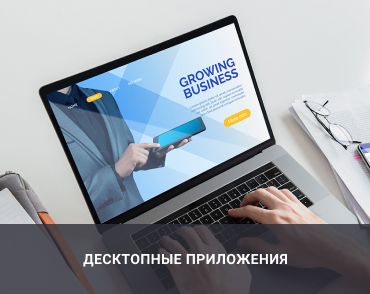
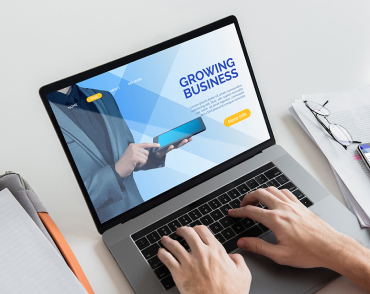
убраны почеркивания и точки частично

Changed region(s): [[0.0, 0.7347, 1.0, 1.0]]

diff --git a/css/styles.css b/css/styles.css
@@ -11,16 +11,27 @@
 }
 
 body {
-    background-color: var(--primary-white-color);
+  background-color: var(--primary-white-color);
   color: var(--primary-text-color);
+
+  font-family: Roboto, sans-serif;
+  letter-spacing: 0.03em;
+  font-size: 14px;
+  line-height: 1.14;
 }
+
+.list {
+  list-style: none;
+}
+
 /*веб студио*/
+
 /*header*/
 .logo {
   font-family: Raleway;
-  font-style: normal;
-  font-weight: bold;
   font-size: 26px;
+  line-height: 1.19;
+  text-decoration: none;
 }
 
 .logo-web {
@@ -33,6 +44,13 @@ body {
 
 .page {
   color: inherit;
+  text-decoration: none;
+}
+
+.site-nav {
+font-weight: 500;
+letter-spacing: 0.02em;
+list-style: none;
 }
 
 .site-nav .page:hover,
@@ -50,6 +68,9 @@ body {
 
 .contacts .contacts-mail {
   color: var(--secondary-text-color);
+  font-weight: 500;
+  letter-spacing: 0.02em;
+  text-decoration: none;
 }
 
 .contacts .contacts-mail:hover,
@@ -59,6 +80,9 @@ body {
 
 .contacts .contacts-tel {
   color: var(--secondary-text-color);
+  font-weight: 500;
+  letter-spacing: 0.02em;
+  text-decoration: none;
 }
 
 .contacts .contacts-tel:hover,
@@ -69,21 +93,54 @@ body {
 /*hero*/
 .hero {
   color: #fff;
+  font-weight: 900;
+  font-size: 44px;
+  line-height: 1.36;
+  letter-spacing: 0.06em;
+  text-align: center;
 }
 
 /*преимущества*/
+.details {
+}
+
 .details-desc {
   color: var(--secondary-text-color);
 }
 
 /*услуги*/
+.services {
+  font-size: 36px;
+  line-height: 1.16;
+  text-align: center;
+}
+
 .services-features {
   color: #fff;
+  text-decoration: none;
 }
 
 /*команда*/
+.employees {
+  font-size: 36px;
+line-height: 1.16;
+text-align: center;
+}
+
+.name {
+  font-weight: 500;
+  font-size: 16px;
+  line-height: 1.19;
+}
+
 .employees-position {
   color: var(--secondary-text-color);
+}
+
+.title-clients {
+  font-size: 36px;
+  line-height: 1.16;
+  text-align: center;
 }
 
 /*футер*/
@@ -93,6 +150,8 @@ body {
 
 .footer-adress {
   color: #fff;
+  font-size: 14px;
+  line-height: 1.71;
 }
 
 .footer-join-in {
@@ -106,6 +165,7 @@ body {
 .footer-mail,
 .footer-tel {
   color: rgba(255, 255, 255, 0.6);
+  line-height: 1.71;
 }
 
 .author {
@@ -115,26 +175,43 @@ body {
 /*портфолио*/
 .project {
   color: var(--primary-text-color);
+  font-size: 18px;
+  line-height: 2.0;
+  letter-spacing: 0.06em;
+  text-decoration: none;
 }
 
 .project-type {
   color: var(--secondary-text-color);
+  font-size: 16px;
+  line-height: 1.88;
+  text-decoration: none;
 }
 
 .project-desc {
   color: white;
+  font-size: 18px;
+  line-height: 1.56;
+  text-decoration: none;
 }
 
 /*button*/
 .button-veb {
  color: var(--primary-white-color);
  background-color: var(--accent-color);
+ font-size: 16px;
+ line-height: 1.87;
+ letter-spacing: 0.06em;
+ text-decoration: none;
 }
 
 .button-demo {
   color: var(--primary-text-color);
   background-color: #F5F4FA;
- }
+  font-size: 16px;
+  line-height: 1.63;
+  text-decoration: none;
+}
 
 .button-demo:hover,
 .button-demo:focus {
@@ -145,7 +222,8 @@ body {
  .button-footer {
   background-color: var(--accent-color);
   color: var(--primary-white-color);
- }
+  font-size: 16px;
+  line-height: 1.88;
+  text-decoration: none;
+}
 
-
- #F5F4FA

diff --git a/index.html b/index.html
@@ -4,7 +4,7 @@
     <meta charset="UTF-8">
     <meta name="viewport" content="width=device-width, initial-scale=1.0">
     <title lang="ru">Веб студия</title>
-     <link href="https://fonts.googleapis.com/css2?family=Roboto:wght@400;500;700;900&display=swap" rel="stylesheet">
+     <link href="https://fonts.googleapis.com/css2?family=Raleway:wght@700&family=Roboto:wght@400;500;700;900&display=swap" rel="stylesheet">
      <link rel="stylesheet" href="./css/styles.css" />
   </head>
 
@@ -81,7 +81,7 @@
           <ul>
             <li> 
               <img src="./images/john.jpg" alt="фотография Николая" width="270"/>
-              <h4>Николай Кучеренко</h4>
+              <h4 class="name">Николай Кучеренко</h4>
               <p class="employees-position">Product Designer</p>
                 <ul class="social-link">
                   <li><a href="" aria-label="ссылка на Instagram">Instagram</a></li>
@@ -92,7 +92,7 @@
             </li>
             <li>
               <img src="./images/marta.jpg" alt="фотография Ольги" width="270"/>
-              <h4>Ольга Иванова</h4>
+              <h4 class="name">Ольга Иванова</h4>
               <p class="employees-position">Frontend Developer</p>
                 <ul>
                   <li><a href="" aria-label="ссылка на Instagram">Instagram</a></li>
@@ -103,7 +103,7 @@
             </li>
             <li>
               <img src="./images/robert.jpg" alt="фотография Андрея" width="270"/>
-              <h4>Андрей Шевченко</h4>
+              <h4 class="name">Андрей Шевченко</h4>
               <p class="employees-position">Marketing</p>
                 <ul>
                   <li><a href="" aria-label="ссылка на Instagram">Instagram</a></li>
@@ -114,7 +114,7 @@
             </li>
             <li>
               <img src="./images/martin.jpg" alt="фотография Ивана" width="270"/>
-              <h4>Иван Николаев</h4>
+              <h4 class="name">Иван Николаев</h4>
               <p class="employees-position">UI Designer</p>
                 <ul>
                   <li><a href="" aria-label="ссылка на Instagram">Instagram</a></li>
@@ -127,7 +127,7 @@
        </section>
        <!--Клиенты-->
        <section>
-          <h4>Постоянные клиенты</h4>
+          <h4 class="title-clients">Постоянные клиенты</h4>
           <ul>
               <li><a href=""> <img src="./images/client1.svg" alt="логотип клиент 1" /></a></li>
               <li><a href=""> <img src="./images/client2.svg" alt="логотип клиент 2" /></a></li>

diff --git a/portfilio.html b/portfilio.html
@@ -4,7 +4,7 @@
     <meta charset="UTF-8">
     <meta name="viewport" content="width=device-width, initial-scale=1.0">
     <title lang="ru">Портфолио</title>
-     <link href="https://fonts.googleapis.com/css2?family=Roboto:wght@400;500;700;900&display=swap" rel="stylesheet">
+     <link href="https://fonts.googleapis.com/css2?family=Raleway:wght@700&family=Roboto:wght@400;500;700;900&display=swap" rel="stylesheet">
      <link rel="stylesheet" href="./css/styles.css" />
   </head>
 
